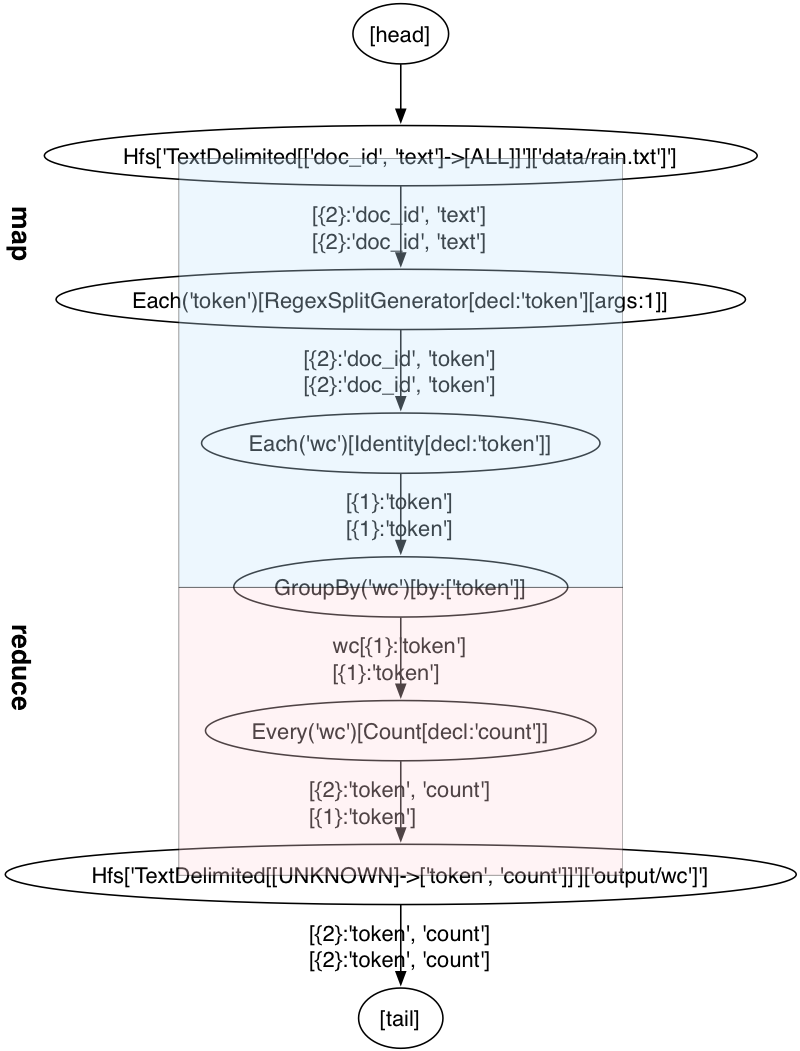
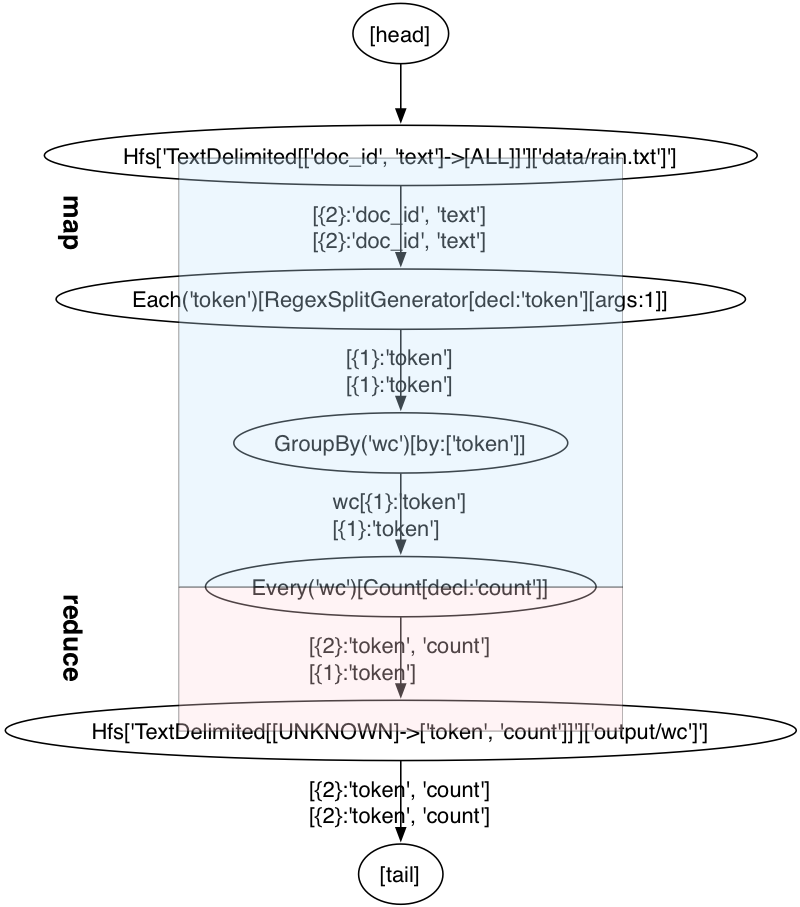
simplified code in example part 2

diff --git a/part2/src/main/java/impatient/Main.java b/part2/src/main/java/impatient/Main.java
@@ -32,7 +32,6 @@ import cascading.pipe.Each;
 import cascading.pipe.Every;
 import cascading.pipe.GroupBy;
 import cascading.pipe.Pipe;
-import cascading.pipe.assembly.Retain;
 import cascading.property.AppProps;
 import cascading.scheme.Scheme;
 import cascading.scheme.hadoop.TextDelimited;
@@ -62,19 +61,19 @@ public class
     Fields token = new Fields( "token" );
     Fields text = new Fields( "text" );
     RegexSplitGenerator splitter = new RegexSplitGenerator( token, "[ \\[\\]\\(\\),.]" );
-    Fields fieldDeclaration = new Fields( "doc_id", "token" );
-    Pipe docPipe = new Each( "token", text, splitter, fieldDeclaration );
+    // only returns "token"
+    Pipe docPipe = new Each( "token", text, splitter, Fields.RESULTS );
 
     // determine the word counts
     Pipe wcPipe = new Pipe( "wc", docPipe );
-    wcPipe = new Retain( wcPipe, token );
     wcPipe = new GroupBy( wcPipe, token );
     wcPipe = new Every( wcPipe, Fields.ALL, new Count(), Fields.ALL );
 
     // connect the taps, pipes, etc., into a flow
-    FlowDef flowDef = FlowDef.flowDef().setName( "wc" );
-    flowDef.addSource( docPipe, docTap );
-    flowDef.addTailSink( wcPipe, wcTap );
+    FlowDef flowDef = FlowDef.flowDef()
+     .setName( "wc" )
+     .addSource( docPipe, docTap )
+     .addTailSink( wcPipe, wcTap );
 
     // write a DOT file and run the flow
     Flow wcFlow = flowConnector.connect( flowDef );

diff --git a/part4/src/main/java/impatient/Main.java b/part4/src/main/java/impatient/Main.java
@@ -72,7 +72,6 @@ public class
     Pipe docPipe = new Each( "token", text, splitter, fieldDeclaration );
 
     // define "ScrubFunction" to clean up the token stream
-    Fields doc_id = new Fields( "doc_id" );
     Fields scrubArguments = new Fields( "doc_id", "token" );
     docPipe = new Each( docPipe, scrubArguments, new ScrubFunction( fieldDeclaration ), Fields.RESULTS );
 
